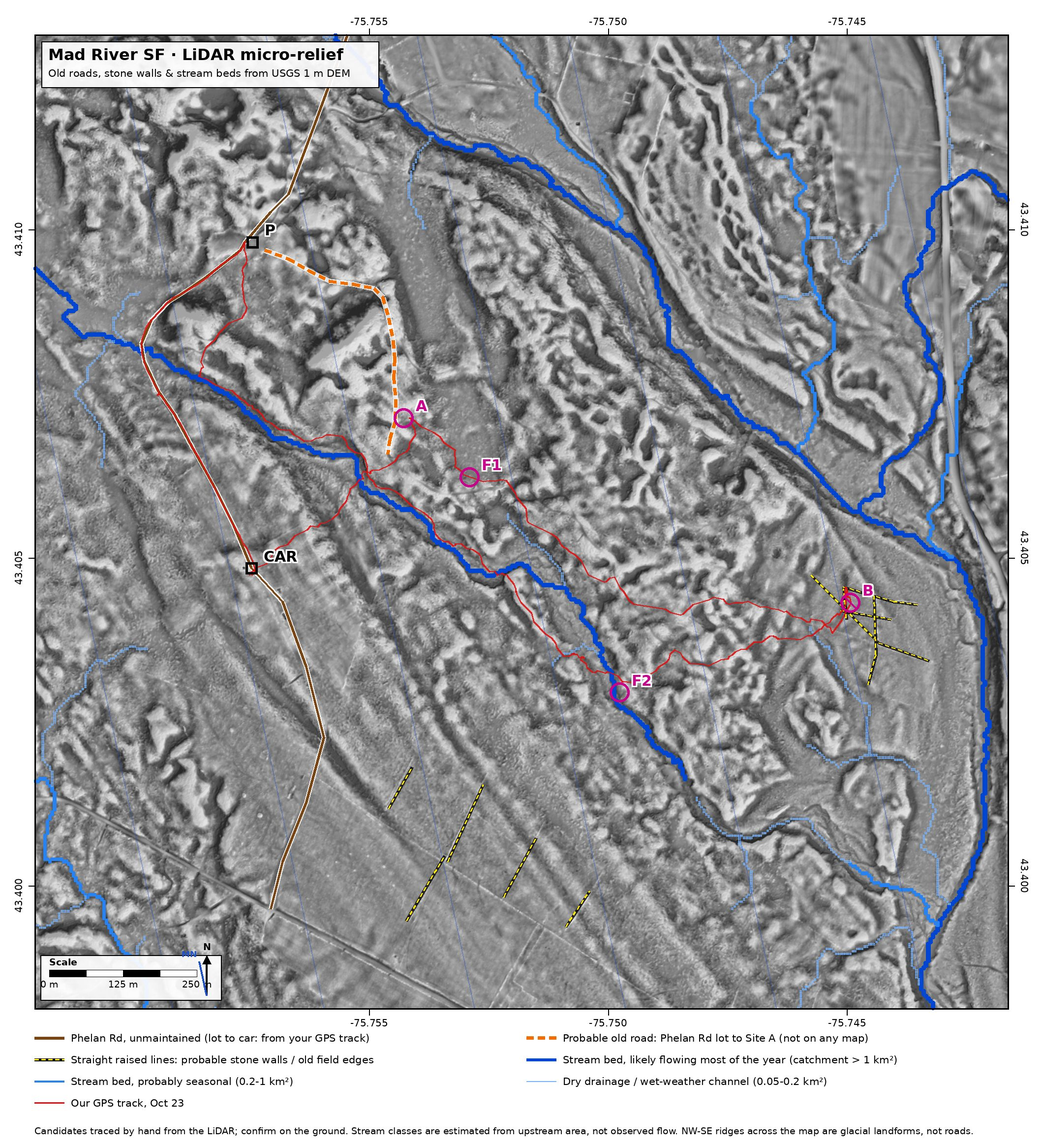
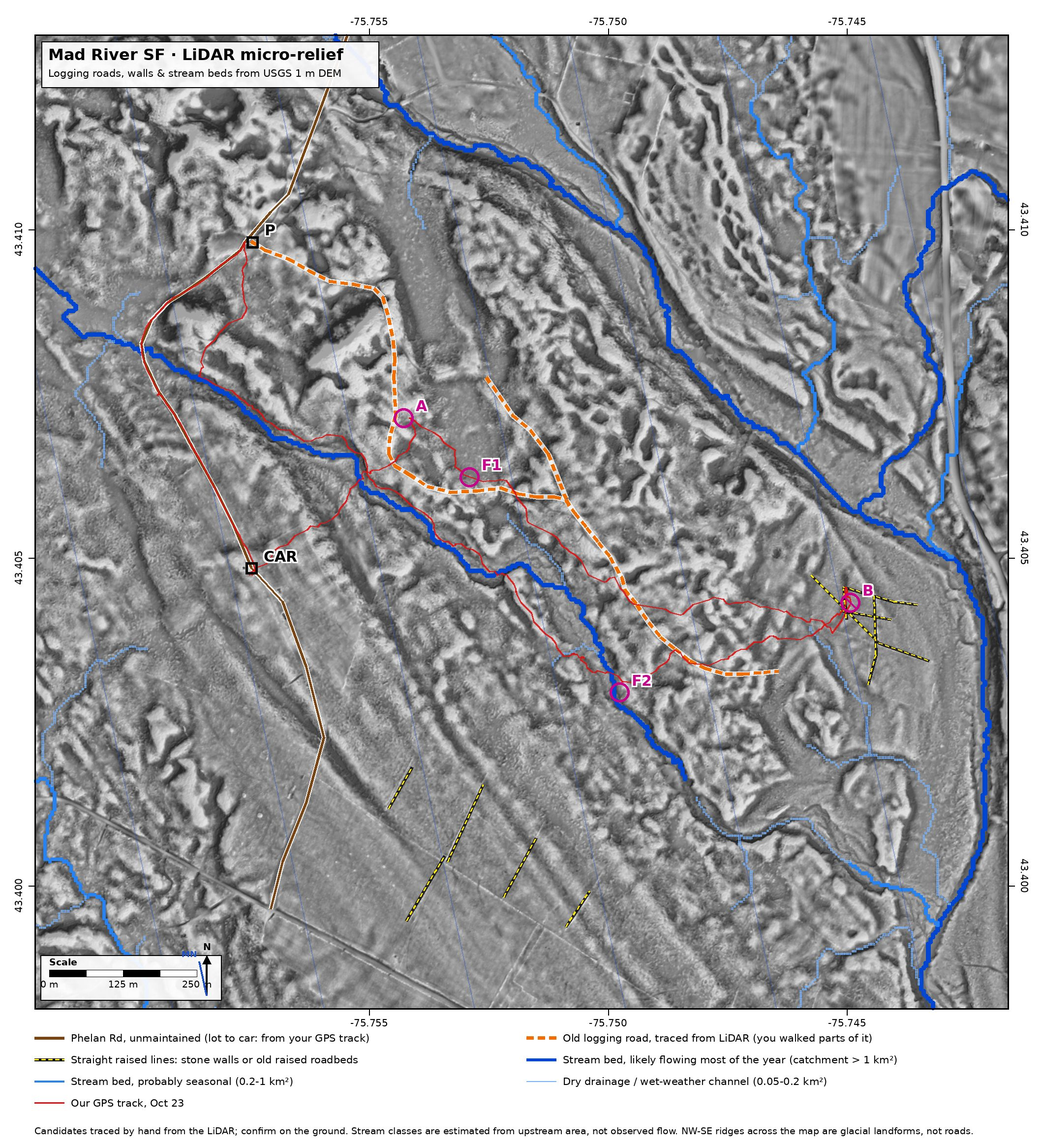
Mad River: trace logging road network from LiDAR
Claude-Session: https://claude.ai/code/session_01Eiqd7PtryHoPCPtGvtB31H

diff --git a/mad-river-scouting.html b/mad-river-scouting.html
@@ -480,7 +480,7 @@
   <h2 style="margin-top:0;">Maps</h2>
   <div class="map-card">
     <img src="images/mad-river/lidar-features.jpg" alt="LiDAR micro-relief map showing a probable old road from the Phelan Rd lot to Site A, probable stone walls, and stream beds classed by size">
-    <p class="map-caption">LiDAR micro-relief: a probable old road (orange dashes) runs from the Phelan Rd lot east and then south to within ~20 m of Site A; straight raised lines in the old fields south of the brook and around Site B are probably stone walls or old field edges; stream beds are classed by upstream area. Hand-traced candidates &mdash; confirm on the ground. <a href="images/mad-river/lidar-features.jpg">Full-size map</a></p>
+    <p class="map-caption">LiDAR micro-relief: an old logging road (orange dashes) runs from the Phelan Rd lot east to Site A, past Found 1, then southeast across the bench to near Site B &mdash; much of today&rsquo;s route followed it, and you saw the truck ruts. A spur joins it from the north near Found 1. Straight raised lines in the old fields south of the brook and around Site B are stone walls or old raised roadbeds; stream beds are classed by upstream area. Traced by hand from the LiDAR. <a href="images/mad-river/lidar-features.jpg">Full-size map</a></p>
   </div>
   <div class="map-card">
     <img src="images/mad-river/lidar-routes.jpg" alt="LiDAR hillshade of the scouting area with slope shading, streams, our GPS track and modeled easiest routes from the car">
